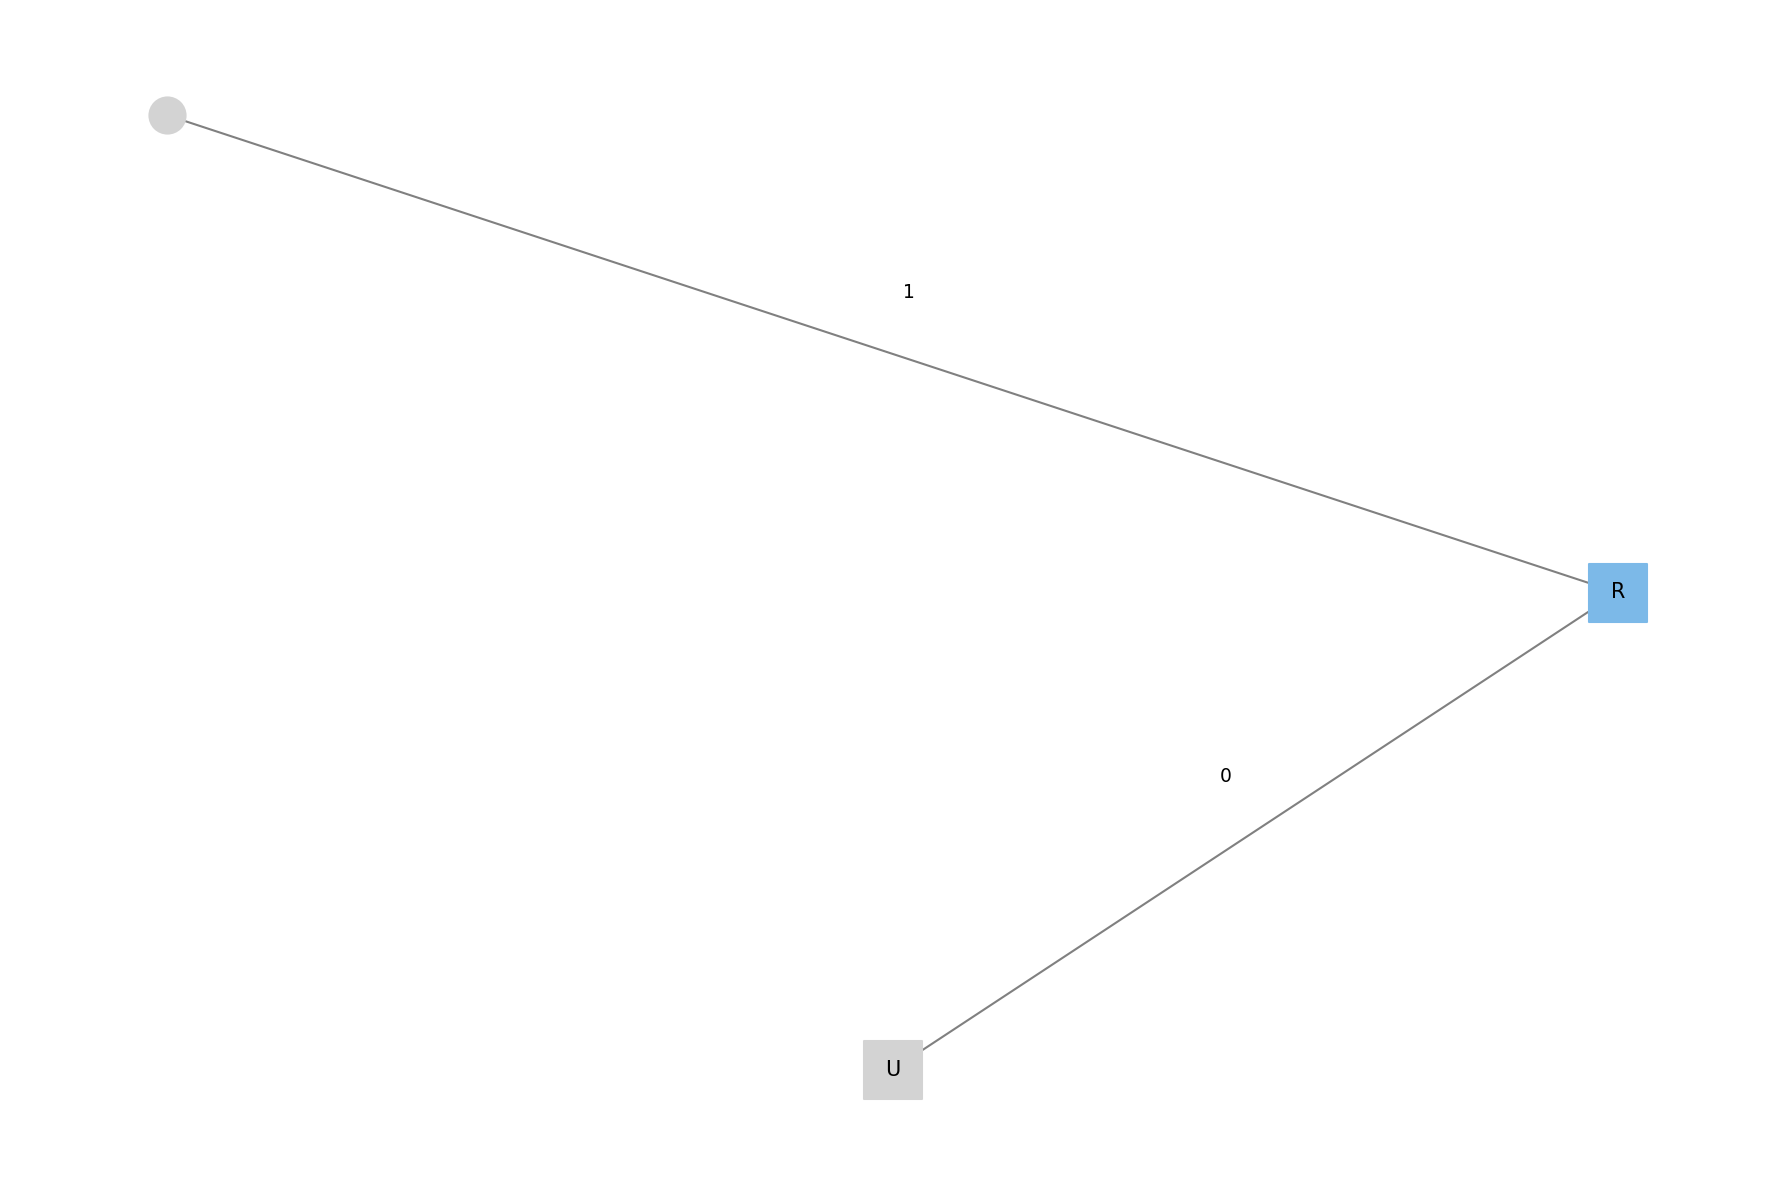
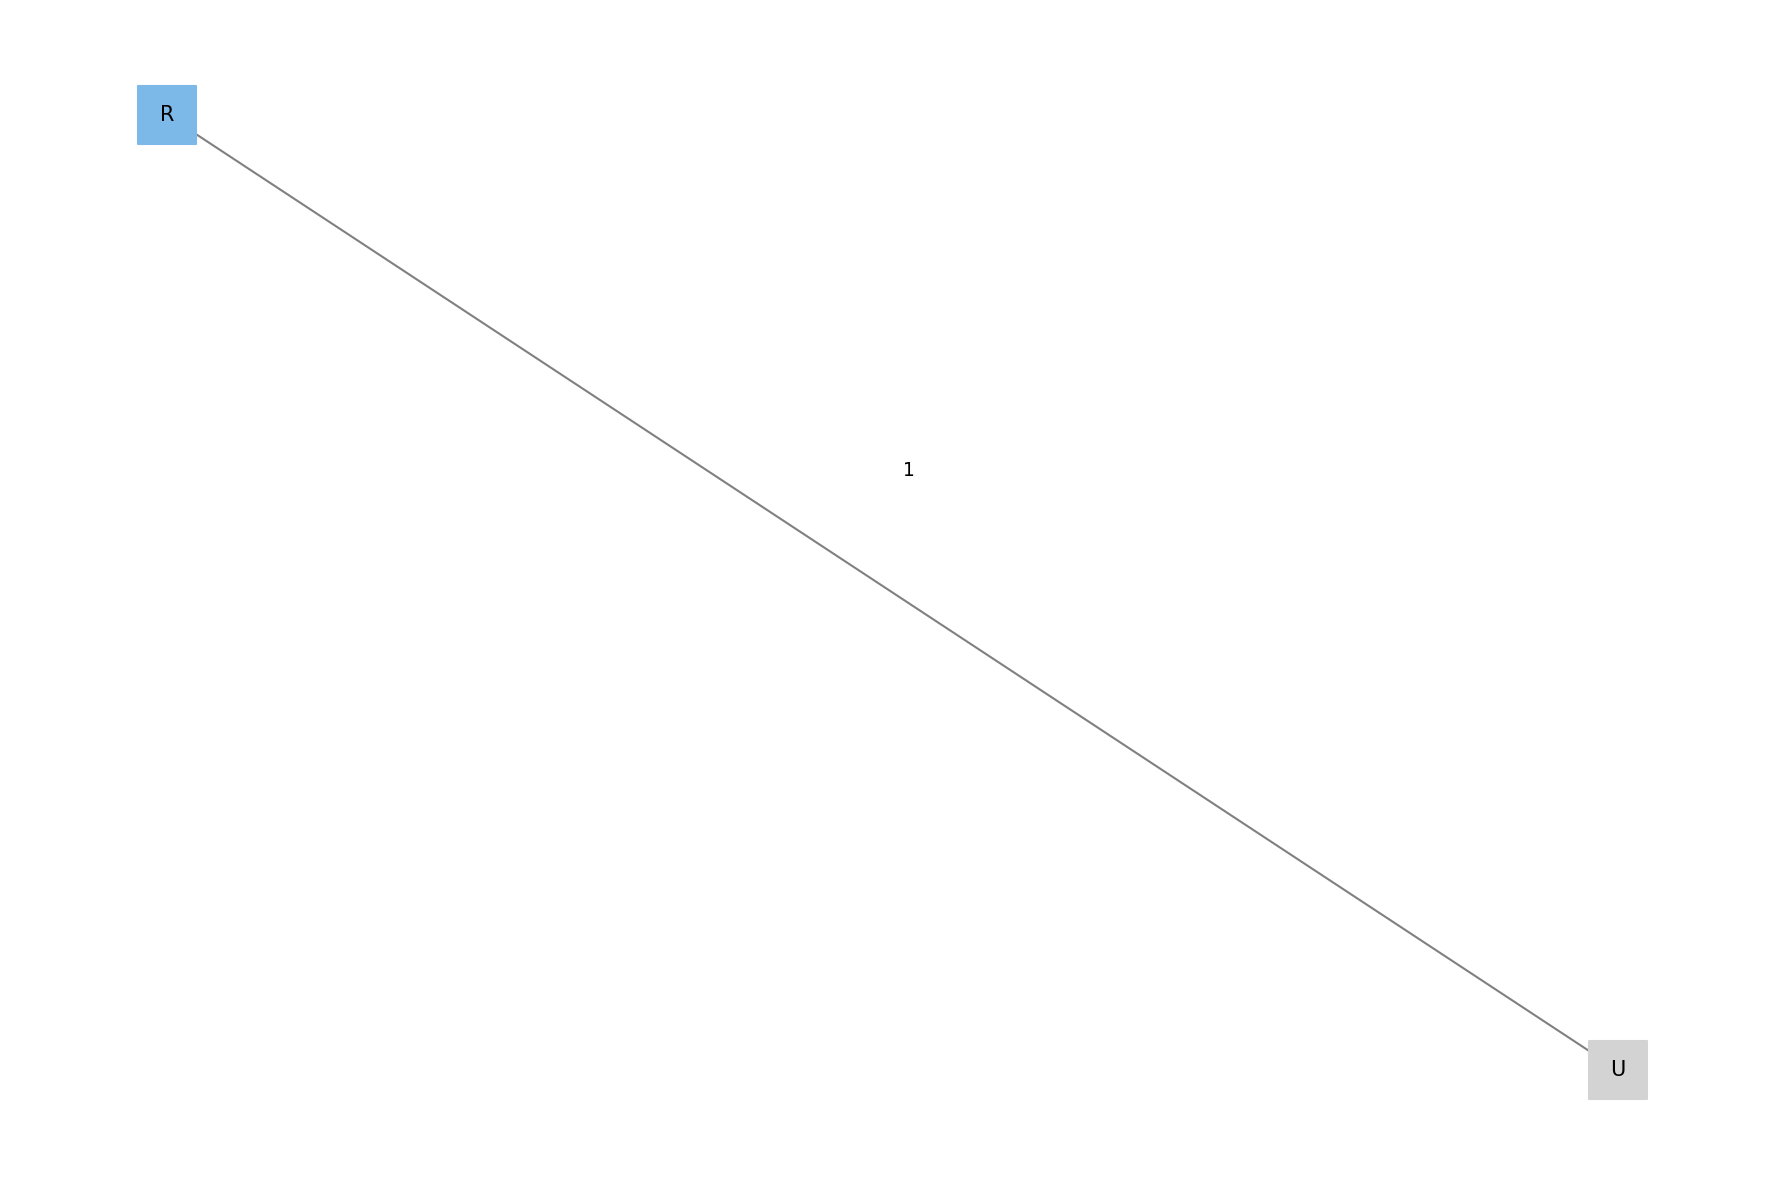
fix: rearrange tree visualization after key deletion

diff --git a/app/services/search/tree/basic_tree.py b/app/services/search/tree/basic_tree.py
@@ -199,6 +199,25 @@ class BaseTree(BaseSearchService):
 		else:
 			raise ValueError(f'Codificación desconocida: {self.encoding}')
 
+	def _binary_to_letter(self, binary: str) -> str:
+		"""Convert a binary string back to its letter representation."""
+		if self.encoding == 'ABC':
+			pos = int(binary, 2)
+			alfabeto = 'ABCDEFGHIJKLMNOPQRSTUVWXYZ'
+			return alfabeto[pos - 1]
+		elif self.encoding == 'ASCII':
+			return chr(int(binary, 2))
+		else:
+			raise ValueError(f"Codificación desconocida: {self.encoding}")
+
+	def _rebuild_tree(self):
+		"""Rebuild the tree structure from the current data array."""
+		self.root = None
+		for i, val in enumerate(self.data):
+			if val is not None:
+				letter = self._binary_to_letter(val)
+				self._insert_node(val, i, letter)
+
 	def insert(self, letter: str) -> int:
 		"""
 		Insert a letter into the tree.
@@ -267,7 +286,7 @@ class BaseTree(BaseSearchService):
 			return []
 		for pos in positions:
 			self.data[pos - 1] = None
-		self._delete_node(binary)
+		self._rebuild_tree()
 		return positions
 
 	def search_plot(self, letter: str, filename: str = 'search_result.png'):

diff --git a/app/services/search/tree/digital_tree.py b/app/services/search/tree/digital_tree.py
@@ -137,30 +137,7 @@ class DigitalTree(BaseTree):
 			binary: Binary representation of the node to remove.
 
 		"""
-
-		def remove(
-			node: Optional[DigitalNode], bits: List[str], depth: int
-		) -> Optional[DigitalNode]:
-			if node is None:
-				return None
-			if node.binary == binary:
-				node.letter = None
-				node.binary = None
-				node.index = None
-				if node.left is None and node.right is None:
-					return None
-				return node
-			if depth < len(bits):
-				bit = bits[depth]
-				if bit == '0':
-					node.left = remove(node.left, bits, depth + 1)
-				else:
-					node.right = remove(node.right, bits, depth + 1)
-			if node.letter is None and node.left is None and node.right is None:
-				return None
-			return node
-
-		self.root = remove(self.root, list(binary), 0)
+		pass
 
 	def _build_graph(
 		self,
